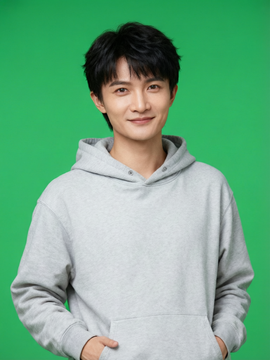
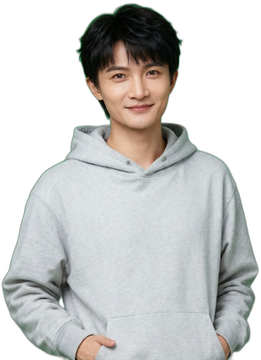
v1.27.5: 修复周深人物绿底，头部改为蓝到青色渐变并增加浅灰阴影

diff --git a/index.html b/index.html
@@ -56,14 +56,14 @@
 
     /* Header */
     .app-header {
-      background: linear-gradient(135deg, var(--primary) 0%, var(--primary-dark) 100%);
+      background: linear-gradient(135deg, #2563EB 0%, #3B82F6 45%, #0EA5E9 100%);
       color: #fff;
       padding: 24px 20px 32px;
       border-radius: var(--radius);
       margin: 12px 16px 0;
       position: relative;
       overflow: visible;
-      box-shadow: 0 4px 16px rgba(91,141,239,0.25);
+      box-shadow: 0 12px 32px rgba(37, 99, 235, 0.18), 0 4px 10px rgba(0,0,0,0.06);
     }
     .app-header h1 { font-size: 1.25rem; font-weight: 600; position: relative; z-index: 2; }
     .app-header .sub { font-size: 0.8125rem; opacity: 0.85; margin-top: 4px; min-height: 1.25rem; position: relative; z-index: 2; }
@@ -1569,7 +1569,7 @@
     </div>
     <div class="list-item flex-between" onclick="openModal('modal-changelog')">
       <span>当前版本</span>
-      <span class="text-light" id="app-version">v1.27.4</span>
+      <span class="text-light" id="app-version">v1.27.5</span>
     </div>
     <div class="list-item flex-between" onclick="toggleTheme()">
       <span>深色模式</span>
@@ -4229,8 +4229,9 @@ async function generateAiSummary(taskStats, totalPoints, totalCompleted, range) 
 }
 
 // ===================== CHANGELOG =====================
-const APP_VERSION = 'v1.27.4';
+const APP_VERSION = 'v1.27.5';
 const CHANGELOG = [
+  { ver: 'v1.27.5', desc: '修复周深人物绿底问题，头部改为蓝到青色渐变并增加浅灰阴影', time: '2026-08-26 18:35:00' },
   { ver: 'v1.27.4', desc: '头部改为带边距圆角渐变卡片，周深人物改为半身大图并向上延伸出头部的设计稿样式', time: '2026-08-26 18:15:00' },
   { ver: 'v1.27.3', desc: '首页、统计、我的、任务管理、兑换、登录等核心页面顶部新增周深形象装饰', time: '2026-08-26 17:55:00' },
   { ver: 'v1.27.2', desc: '任务完成凭证入口改为行内按钮，恢复一键标记完成', time: '2026-08-24 10:00:00' },
